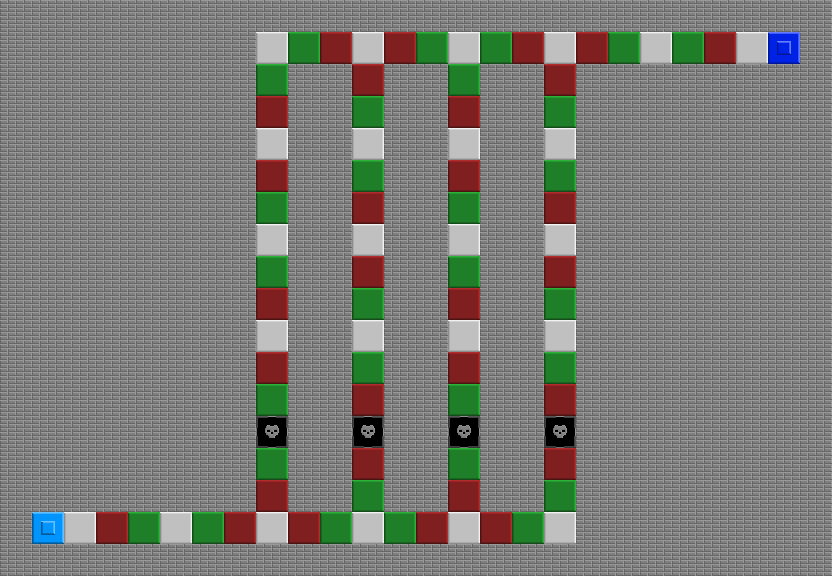
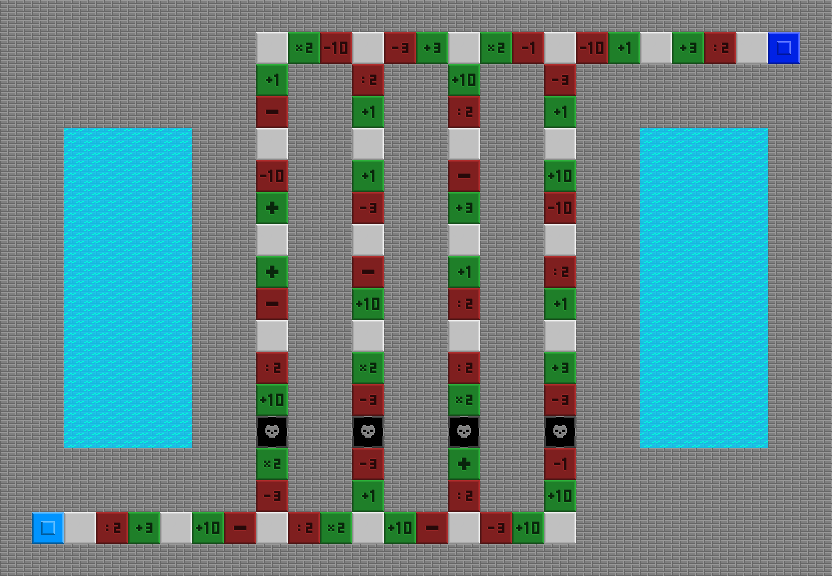
polishes

diff --git a/index.js b/index.js
@@ -145,22 +145,22 @@ let arrMapa2 = [0, 0, 0, 0, 0, 0, 0, 0, 0, 0, 0, 0, 0, 0, 0, 0, 0, 0,
 const mapa2 = new Mapa(arrMapa2, 18 * 32, 18 * 32, dirMapa1);
 
 let arrMapa3 = [0, 0, 0, 0, 0, 0, 0, 0, 0, 0, 0, 0, 0, 0, 0, 0, 0, 0, 0, 0, 0, 0, 0, 0, 0, 0,
-    0, 0, 0, 0, 0, 0, 0, 0, 1, 2, 3, 1, 3, 2, 1, 2, 3, 1, 3, 2, 1, 2, 3, 1, 8, 0,
+    0, 0, 0, 0, 0, 0, 0, 0, 1, 2, 3, 1, 3, 2, 1, 2, 3, 1, 3, 2, 1, 2, 3, 1, 9, 0,
     0, 0, 0, 0, 0, 0, 0, 0, 2, 0, 0, 3, 0, 0, 2, 0, 0, 3, 0, 0, 0, 0, 0, 0, 0, 0,
     0, 0, 0, 0, 0, 0, 0, 0, 3, 0, 0, 2, 0, 0, 3, 0, 0, 2, 0, 0, 0, 0, 0, 0, 0, 0,
-    0, 0, 0, 0, 0, 0, 0, 0, 1, 0, 0, 1, 0, 0, 1, 0, 0, 1, 0, 0, 0, 0, 0, 0, 0, 0,
-    0, 0, 0, 0, 0, 0, 0, 0, 3, 0, 0, 2, 0, 0, 3, 0, 0, 2, 0, 0, 0, 0, 0, 0, 0, 0,
+    0, 0, 10, 10, 10, 10, 0, 0, 1, 0, 0, 1, 0, 0, 1, 0, 0, 1, 0, 0, 10, 10, 10, 10, 0, 0,
+    0, 0, 10, 10, 10, 10, 0, 0, 3, 0, 0, 2, 0, 0, 3, 0, 0, 2, 0, 0, 10, 10, 10, 10, 0, 0,
+    0, 0, 10, 10, 10, 10, 0, 0, 2, 0, 0, 3, 0, 0, 2, 0, 0, 3, 0, 0, 10, 10, 10, 10, 0, 0,
+    0, 0, 10, 10, 10, 10, 0, 0, 1, 0, 0, 1, 0, 0, 1, 0, 0, 1, 0, 0, 10, 10, 10, 10, 0, 0,
+    0, 0, 10, 10, 10, 10, 0, 0, 2, 0, 0, 3, 0, 0, 2, 0, 0, 3, 0, 0, 10, 10, 10, 10, 0, 0,
+    0, 0, 10, 10, 10, 10, 0, 0, 3, 0, 0, 2, 0, 0, 3, 0, 0, 2, 0, 0, 10, 10, 10, 10, 0, 0,
+    0, 0, 10, 10, 10, 10, 0, 0, 1, 0, 0, 1, 0, 0, 1, 0, 0, 1, 0, 0, 10, 10, 10, 10, 0, 0,
+    0, 0, 10, 10, 10, 10, 0, 0, 3, 0, 0, 2, 0, 0, 3, 0, 0, 2, 0, 0, 10, 10, 10, 10, 0, 0,
+    0, 0, 10, 10, 10, 10, 0, 0, 2, 0, 0, 3, 0, 0, 2, 0, 0, 3, 0, 0, 10, 10, 10, 10, 0, 0,
+    0, 0, 10, 10, 10, 10, 0, 0, 7, 0, 0, 7, 0, 0, 7, 0, 0, 7, 0, 0, 10, 10, 10, 10, 0, 0,
     0, 0, 0, 0, 0, 0, 0, 0, 2, 0, 0, 3, 0, 0, 2, 0, 0, 3, 0, 0, 0, 0, 0, 0, 0, 0,
-    0, 0, 0, 0, 0, 0, 0, 0, 1, 0, 0, 1, 0, 0, 1, 0, 0, 1, 0, 0, 0, 0, 0, 0, 0, 0,
-    0, 0, 0, 0, 0, 0, 0, 0, 2, 0, 0, 3, 0, 0, 2, 0, 0, 3, 0, 0, 0, 0, 0, 0, 0, 0,
     0, 0, 0, 0, 0, 0, 0, 0, 3, 0, 0, 2, 0, 0, 3, 0, 0, 2, 0, 0, 0, 0, 0, 0, 0, 0,
-    0, 0, 0, 0, 0, 0, 0, 0, 1, 0, 0, 1, 0, 0, 1, 0, 0, 1, 0, 0, 0, 0, 0, 0, 0, 0,
-    0, 0, 0, 0, 0, 0, 0, 0, 3, 0, 0, 2, 0, 0, 3, 0, 0, 2, 0, 0, 0, 0, 0, 0, 0, 0,
-    0, 0, 0, 0, 0, 0, 0, 0, 2, 0, 0, 3, 0, 0, 2, 0, 0, 3, 0, 0, 0, 0, 0, 0, 0, 0,
-    0, 0, 0, 0, 0, 0, 0, 0, 7, 0, 0, 7, 0, 0, 7, 0, 0, 7, 0, 0, 0, 0, 0, 0, 0, 0,
-    0, 0, 0, 0, 0, 0, 0, 0, 2, 0, 0, 3, 0, 0, 2, 0, 0, 3, 0, 0, 0, 0, 0, 0, 0, 0,
-    0, 0, 0, 0, 0, 0, 0, 0, 3, 0, 0, 2, 0, 0, 3, 0, 0, 2, 0, 0, 0, 0, 0, 0, 0, 0,
-    0, 9, 1, 3, 2, 1, 2, 3, 1, 3, 2, 1, 2, 3, 1, 3, 2, 1, 0, 0, 0, 0, 0, 0, 0, 0,
+    0, 8, 1, 3, 2, 1, 2, 3, 1, 3, 2, 1, 2, 3, 1, 3, 2, 1, 0, 0, 0, 0, 0, 0, 0, 0,
     0, 0, 0, 0, 0, 0, 0, 0, 0, 0, 0, 0, 0, 0, 0, 0, 0, 0, 0, 0, 0, 0, 0, 0, 0, 0];
 const mapa3 = new Mapa(arrMapa3, 26 * 32, 18 * 32, dirMapa1);
 
@@ -178,14 +178,14 @@ let arrmapa5 = [0, 0, 0, 0, 0, 0, 0, 0, 0, 0, 0, 0, 0, 0, 0, 0, 0, 0, 0, 0, 0, 0
     0, 0, 0, 5, 0, 0, 0, 0, 0, 0, 0, 0, 0, 0, 0, 0, 0, 0, 0, 0, 0, 0, 0, 0, 0, 0, 0, 0, 0, 0, 0, 0,
     0, 3, 2, 1, 2, 3, 0, 1, 3, 2, 1, 0, 0, 2, 3, 1, 0, 1, 3, 2, 1, 2, 3, 1, 0, 3, 1, 3, 2, 1, 2, 0,
     0, 1, 0, 0, 0, 1, 0, 2, 0, 0, 5, 0, 0, 1, 0, 3, 0, 3, 0, 0, 0, 0, 0, 5, 0, 2, 0, 0, 0, 0, 3, 0,
-    0, 3, 0, 0, 0, 3, 0, 3, 0, 3, 1, 3, 0, 2, 0, 2, 4, 2, 0, 0, 0, 2, 3, 1, 0, 1, 2, 3, 1, 0, 1, 0,
-    0, 2, 0, 0, 0, 2, 0, 1, 0, 2, 0, 2, 0, 3, 0, 0, 0, 0, 0, 0, 0, 1, 0, 0, 0, 0, 0, 0, 4, 0, 7, 0,
-    0, 1, 0, 0, 0, 1, 0, 3, 0, 1, 0, 1, 0, 7, 0, 0, 0, 1, 3, 2, 0, 2, 0, 1, 3, 2, 1, 2, 3, 0, 1, 0,
-    0, 2, 0, 0, 0, 2, 0, 2, 0, 2, 0, 2, 0, 3, 2, 1, 0, 3, 0, 1, 0, 3, 0, 3, 0, 0, 0, 0, 2, 0, 3, 0,
-    0, 3, 0, 0, 0, 3, 0, 1, 0, 3, 0, 3, 0, 0, 0, 2, 0, 2, 0, 3, 0, 1, 0, 2, 0, 0, 0, 0, 1, 0, 2, 0,
-    0, 1, 0, 0, 0, 1, 0, 2, 0, 1, 0, 1, 0, 3, 1, 3, 0, 1, 0, 2, 0, 3, 0, 1, 0, 0, 0, 0, 2, 0, 1, 0,
-    0, 3, 2, 1, 2, 3, 0, 3, 0, 3, 0, 3, 0, 2, 0, 0, 0, 2, 0, 1, 0, 2, 0, 2, 0, 0, 0, 0, 3, 0, 2, 0,
-    0, 0, 0, 2, 0, 0, 0, 1, 0, 2, 1, 2, 0, 1, 2, 3, 1, 3, 0, 2, 0, 1, 0, 3, 0, 0, 0, 0, 1, 0, 3, 0,
+    0, 3, 0, 10, 0, 3, 0, 3, 0, 3, 1, 3, 0, 2, 0, 2, 4, 2, 0, 0, 0, 2, 3, 1, 0, 1, 2, 3, 1, 0, 1, 0,
+    0, 2, 0, 10, 0, 2, 0, 1, 0, 2, 0, 2, 0, 3, 0, 0, 0, 0, 0, 0, 0, 1, 0, 0, 0, 0, 0, 0, 4, 0, 7, 0,
+    0, 1, 0, 10, 0, 1, 0, 3, 0, 1, 0, 1, 0, 7, 0, 0, 0, 1, 3, 2, 0, 2, 0, 1, 3, 2, 1, 2, 3, 0, 1, 0,
+    0, 2, 0, 10, 0, 2, 0, 2, 0, 2, 0, 2, 0, 3, 2, 1, 0, 3, 0, 1, 0, 3, 0, 3, 0, 0, 0, 0, 2, 0, 3, 0,
+    0, 3, 0, 10, 0, 3, 0, 1, 0, 3, 0, 3, 0, 0, 0, 2, 0, 2, 0, 3, 0, 1, 0, 2, 0, 10, 10, 0, 1, 0, 2, 0,
+    0, 1, 0, 0, 0, 1, 0, 2, 0, 1, 0, 1, 0, 3, 1, 3, 0, 1, 0, 2, 0, 3, 0, 1, 0, 10, 10, 0, 2, 0, 1, 0,
+    0, 3, 2, 1, 2, 3, 0, 3, 0, 3, 0, 3, 0, 2, 0, 0, 0, 2, 0, 1, 0, 2, 0, 2, 0, 10, 10, 0, 3, 0, 2, 0,
+    0, 0, 0, 2, 0, 0, 0, 1, 0, 2, 1, 2, 0, 1, 2, 3, 1, 3, 0, 2, 0, 1, 0, 3, 0, 10, 10, 0, 1, 0, 3, 0,
     0, 0, 0, 3, 0, 0, 0, 3, 0, 0, 7, 0, 0, 0, 0, 0, 0, 0, 0, 3, 0, 2, 0, 1, 0, 0, 0, 0, 3, 0, 1, 0,
     0, 0, 0, 4, 3, 2, 1, 2, 0, 0, 1, 2, 3, 1, 3, 2, 1, 2, 3, 1, 0, 3, 1, 5, 1, 3, 2, 1, 2, 0, 9, 0,
     0, 0, 0, 0, 0, 0, 0, 0, 0, 0, 0, 0, 0, 0, 0, 0, 0, 0, 0, 0, 0, 0, 0, 0, 0, 0, 0, 0, 0, 0, 0, 0];
@@ -294,35 +294,8 @@ let arrmapa11 = [8, 0, 0, 0, 0, 0, 0, 0, 0, 0,
     9, 1, 3, 2, 1, 3, 2, 1, 3, 0];
 const mapa11 = new Mapa(arrmapa11, 10 * 32, 10 * 32, dirMapa1);
 
-let arrmapa12 = [0, 0, 0, 0, 0, 0, 0, 0, 0, 0, 0, 0, 0, 0, 0, 0, 0, 0, 0, 0, 0, 0, 0, 0, 0, 0, 0, 0, 0, 0, 0, 0,
-    0, 0, 0, 3, 2, 1, 2, 3, 1, 3, 2, 1, 2, 3, 1, 3, 2, 1, 2, 3, 1, 3, 2, 1, 2, 3, 1, 3, 2, 1, 8, 0,
-    0, 0, 0, 5, 0, 0, 0, 0, 0, 0, 0, 0, 0, 0, 0, 0, 0, 0, 0, 0, 0, 0, 0, 0, 0, 0, 0, 0, 0, 0, 0, 0,
-    0, 3, 2, 1, 2, 3, 0, 1, 3, 2, 1, 0, 0, 2, 3, 1, 0, 1, 3, 2, 1, 2, 3, 1, 0, 3, 1, 3, 2, 1, 2, 0,
-    0, 1, 0, 0, 0, 1, 0, 2, 0, 0, 5, 0, 0, 1, 0, 3, 0, 3, 0, 0, 0, 0, 0, 5, 0, 2, 0, 0, 0, 0, 3, 0,
-    0, 3, 0, 10, 0, 3, 0, 3, 0, 3, 1, 3, 0, 2, 0, 2, 4, 2, 0, 0, 0, 2, 3, 1, 0, 1, 2, 3, 1, 0, 1, 0,
-    0, 2, 0, 10, 0, 2, 0, 1, 0, 2, 0, 2, 0, 3, 0, 0, 0, 0, 0, 0, 0, 1, 0, 0, 0, 0, 0, 0, 4, 0, 7, 0,
-    0, 1, 0, 10, 0, 1, 0, 3, 0, 1, 0, 1, 0, 7, 0, 0, 0, 1, 3, 2, 0, 2, 0, 1, 3, 2, 1, 2, 3, 0, 1, 0,
-    0, 2, 0, 10, 0, 2, 0, 2, 0, 2, 0, 2, 0, 3, 2, 1, 0, 3, 0, 1, 0, 3, 0, 3, 0, 0, 0, 0, 2, 0, 3, 0,
-    0, 3, 0, 10, 0, 3, 0, 1, 0, 3, 0, 3, 0, 0, 0, 2, 0, 2, 0, 3, 0, 1, 0, 2, 0, 10, 10, 0, 1, 0, 2, 0,
-    0, 1, 0, 0, 0, 1, 0, 2, 0, 1, 0, 1, 0, 3, 1, 3, 0, 1, 0, 2, 0, 3, 0, 1, 0, 10, 10, 0, 2, 0, 1, 0,
-    0, 3, 2, 1, 2, 3, 0, 3, 0, 3, 0, 3, 0, 2, 0, 0, 0, 2, 0, 1, 0, 2, 0, 2, 0, 10, 10, 0, 3, 0, 2, 0,
-    0, 0, 0, 2, 0, 0, 0, 1, 0, 2, 1, 2, 0, 1, 2, 3, 1, 3, 0, 2, 0, 1, 0, 3, 0, 10, 10, 0, 1, 0, 3, 0,
-    0, 0, 0, 3, 0, 0, 0, 3, 0, 0, 7, 0, 0, 0, 0, 0, 0, 0, 0, 3, 0, 2, 0, 1, 0, 0, 0, 0, 3, 0, 1, 0,
-    0, 0, 0, 4, 3, 2, 1, 2, 0, 0, 1, 2, 3, 1, 3, 2, 1, 2, 3, 1, 0, 3, 1, 5, 1, 3, 2, 1, 2, 0, 9, 0,
-    0, 0, 0, 0, 0, 0, 0, 0, 0, 0, 0, 0, 0, 0, 0, 0, 0, 0, 0, 0, 0, 0, 0, 0, 0, 0, 0, 0, 0, 0, 0, 0];
+let arrmapa12 = [];
 const mapa12 = new Mapa(arrmapa12, 32 * 32, 16 * 32, dirMapa1);
-
-
-//0 = casa void
-//1 = casa vazia
-//2 = positivo
-//3 = negativo
-//4 = santuario
-//5 = aleatorio
-//6 = teleport
-//7 = cemiterio
-//8 = inicio
-//9 = fim
 
 window.onload = function () {
     canvas = document.getElementById("jogo");

diff --git a/index.html b/index.html
@@ -106,7 +106,7 @@
 			<label class="radiolabel">
 				<input type="radio" name="mapselect" value="12">
 				<div class="radiobtn"> <img src="img/mapas/mapa12.png" class="radioimage">
-					<p class="pmapa">Viagem</p>
+					<p class="pmapa">¯\_(ツ)_/¯</p>
 				</div>
 			</label>
 		</div>

diff --git a/index.css b/index.css
@@ -146,7 +146,7 @@ label {
 
 .playerselection {
 	display: grid;
-	grid-template-columns: auto auto auto;
+	grid-template-columns: auto auto auto auto auto auto;
 }
 
 .playerbox {
